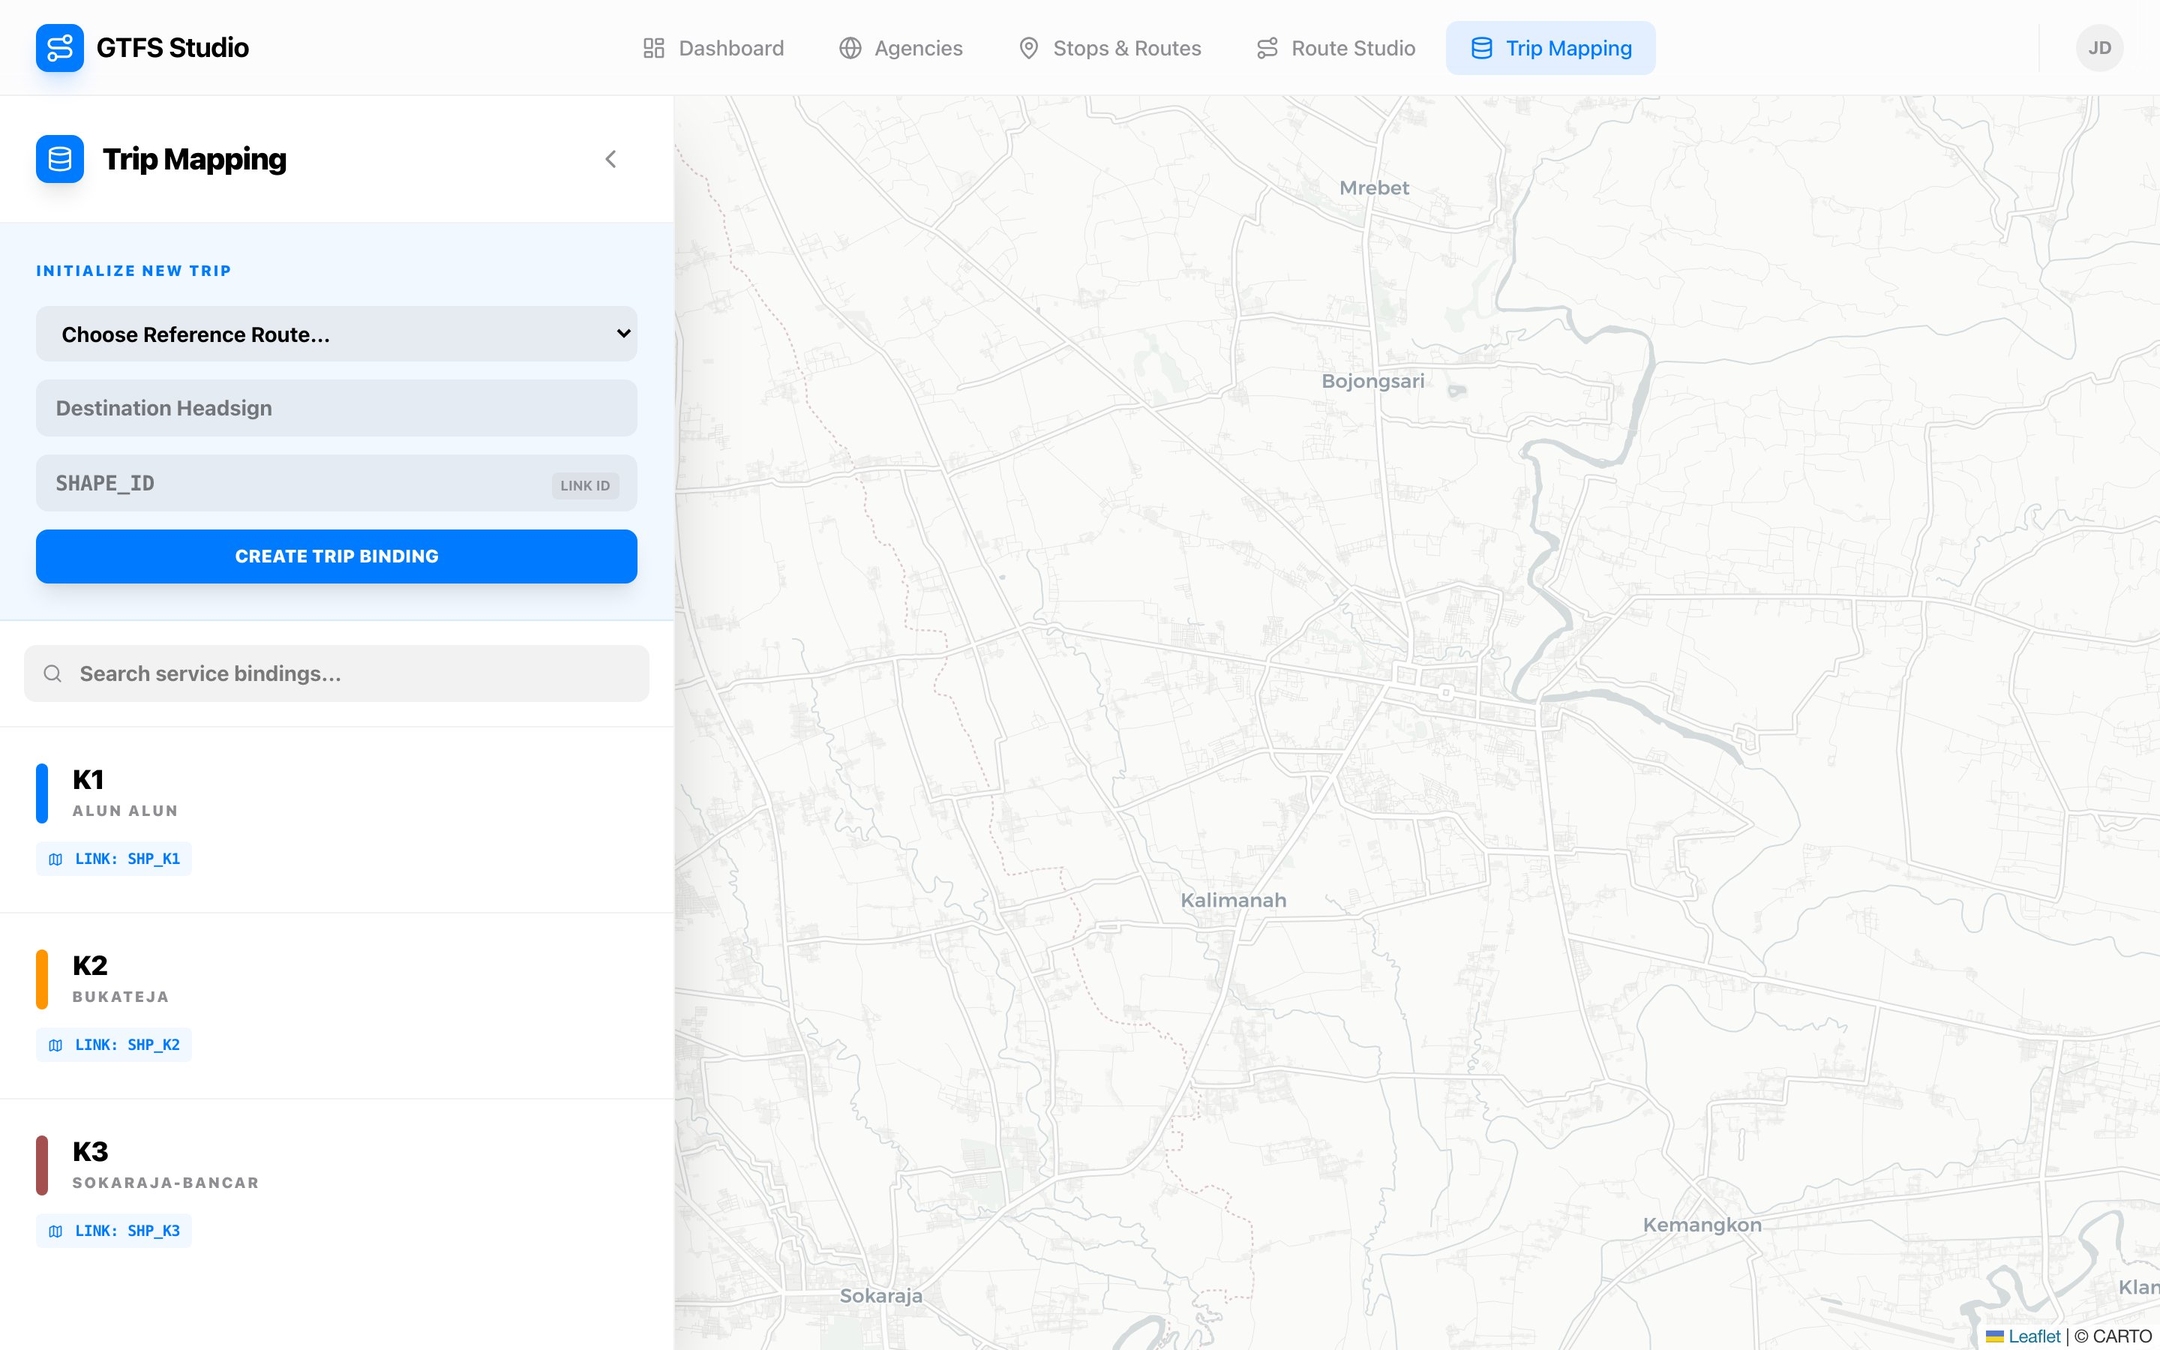
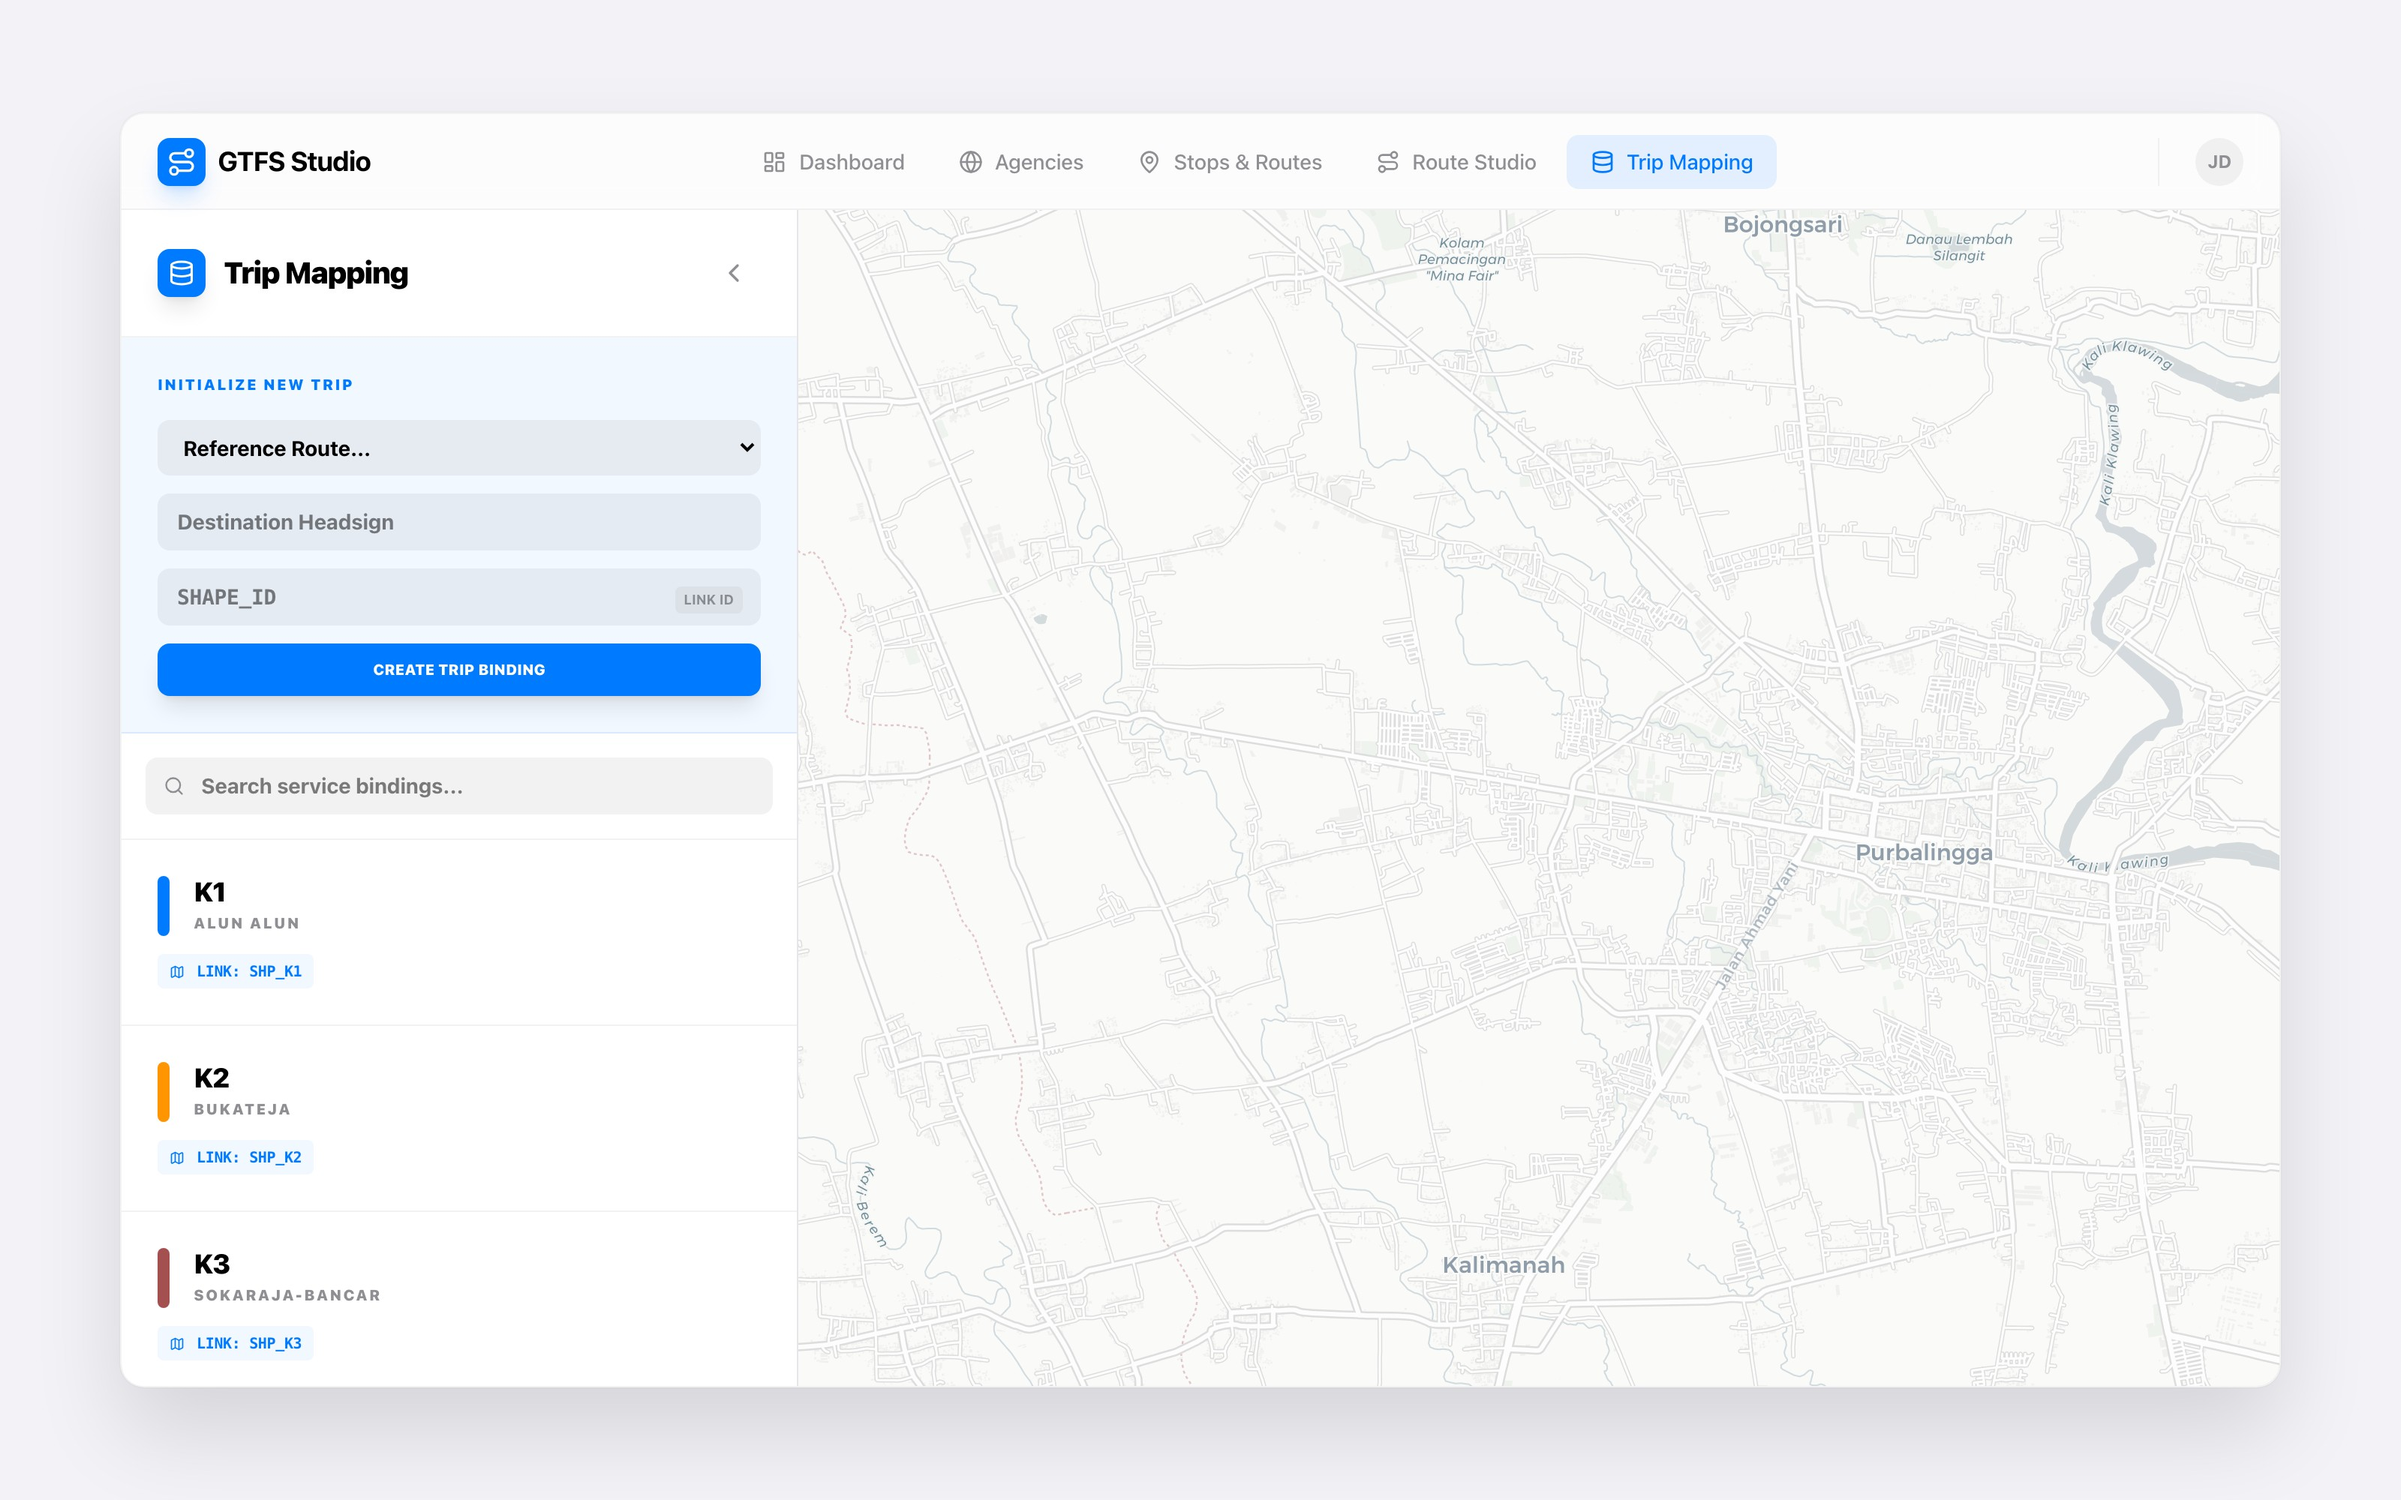
docs: generate professional framed screenshots for all CMS pages

diff --git a/scripts/capture_screenshots.js b/scripts/capture_screenshots.js
@@ -13,15 +13,14 @@ const PAGES = [
 const OUTPUT_DIR = path.join(__dirname, '..', 'assets', 'screenshots');
 
 (async () => {
-  console.log('🚀 Starting automated screenshot capture...');
+  console.log('🚀 Starting automated screenshot capture with framed mockups...');
   const browser = await chromium.launch();
   const context = await browser.newContext({
-    viewport: { width: 1440, height: 900 },
+    viewport: { width: 1600, height: 1000 }, // Larger viewport to accommodate frame
     deviceScaleFactor: 2,
   });
   const page = await context.newPage();
 
-  // Set a longer timeout
   page.setDefaultTimeout(60000);
 
   for (const item of PAGES) {
@@ -58,10 +57,36 @@ const OUTPUT_DIR = path.join(__dirname, '..', 'assets', 'screenshots');
             await page.waitForTimeout(3000);
         }
 
+        // --- Inject Frame Effect ---
+        await page.evaluate(() => {
+            // Apply a frame/window look to the entire body
+            const body = document.body;
+            body.style.backgroundColor = '#F2F2F7'; // Frame color
+            body.style.padding = '40px';
+            body.style.display = 'flex';
+            body.style.justifyContent = 'center';
+            body.style.alignItems = 'center';
+            body.style.height = '100vh';
+            body.style.boxSizing = 'border-box';
+
+            const root = document.getElementById('root');
+            if (root) {
+                root.style.width = '1440px';
+                root.style.height = '850px';
+                root.style.backgroundColor = 'white';
+                root.style.borderRadius = '16px';
+                root.style.boxShadow = '0 30px 60px rgba(0,0,0,0.12), 0 0 1px rgba(0,0,0,0.1)';
+                root.style.overflow = 'hidden';
+                root.style.position = 'relative';
+                root.style.border = '1px solid rgba(0,0,0,0.05)';
+            }
+        });
+
         await page.screenshot({ 
             path: path.join(OUTPUT_DIR, `${item.name}.jpg`),
-            quality: 85,
-            type: 'jpeg'
+            quality: 90,
+            type: 'jpeg',
+            fullPage: true // Capture the entire framed viewport
         });
     } catch (err) {
         console.error(`❌ Failed to capture ${item.name}: ${err.message}`);
@@ -69,5 +94,5 @@ const OUTPUT_DIR = path.join(__dirname, '..', 'assets', 'screenshots');
   }
 
   await browser.close();
-  console.log('✅ All screenshots updated in assets/screenshots/');
+  console.log('✅ All framed screenshots updated in assets/screenshots/');
 })();
